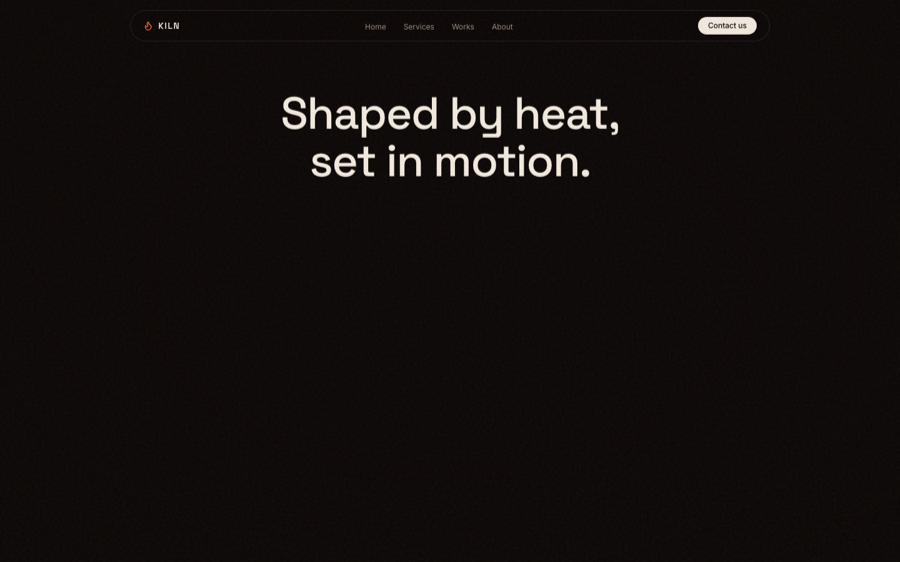
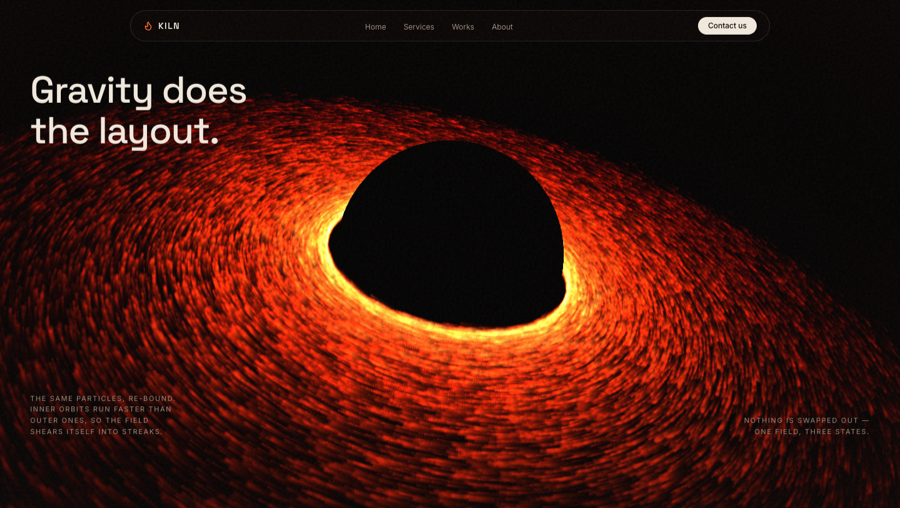
Work gallery: reorder cards, vivid Kiln black-hole shot, balanced Match thumbnail
- Reorder: Éphémère → Rouge Nuit → MÛN → Void → Velora → Kiln → web apps
- Kiln thumbnail now the live WebGL black hole (#void scene), tags → WebGL
- Match 単語帳 phone screenshot recaptured at 480px for even side margins

diff --git a/index.html b/index.html
@@ -201,31 +201,16 @@
     </article>
 
     <article class="work-card reveal">
-      <a class="work-thumb" href="https://void-gray-pi.vercel.app" target="_blank" rel="noopener">
-        <img src="assets/work/void.png" alt="Void creative studio website" loading="lazy" />
+      <a class="work-thumb" href="https://rouge-nuit.vercel.app" target="_blank" rel="noopener">
+        <img src="assets/work/rouge-nuit.png" alt="Rouge Nuit cosmetics website" loading="lazy" />
         <span class="work-thumb-cta">View live ↗</span>
       </a>
       <div class="work-info">
-        <div class="work-titlerow"><h3 class="work-title">Void</h3><span class="work-year">’26</span></div>
-        <p class="work-desc">A bold creative-studio site with a striking hero and expressive, high-contrast art direction.</p>
+        <div class="work-titlerow"><h3 class="work-title">Rouge Nuit</h3><span class="work-year">’26</span></div>
+        <p class="work-desc">A cosmetics landing page with dark-romance art direction and a single, confident hero product.</p>
         <div class="work-meta">
-          <div class="work-tags"><span class="work-tag">Next.js</span><span class="work-tag">Motion</span><span class="work-tag">Studio</span></div>
-          <div class="work-links"><a href="https://void-gray-pi.vercel.app" target="_blank" rel="noopener" class="work-link">Live</a><a href="https://github.com/cathyakanerena07/void-studio" target="_blank" rel="noopener" class="work-link ghost">Code</a></div>
-        </div>
-      </div>
-    </article>
-
-    <article class="work-card reveal">
-      <a class="work-thumb" href="https://kiln-tawny.vercel.app" target="_blank" rel="noopener">
-        <img src="assets/work/kiln.png" alt="Kiln motion studio website" loading="lazy" />
-        <span class="work-thumb-cta">View live ↗</span>
-      </a>
-      <div class="work-info">
-        <div class="work-titlerow"><h3 class="work-title">Kiln</h3><span class="work-year">’26</span></div>
-        <p class="work-desc">A motion-studio site built around scroll-driven animation and warm, tactile branding.</p>
-        <div class="work-meta">
-          <div class="work-tags"><span class="work-tag">Next.js</span><span class="work-tag">Scroll FX</span><span class="work-tag">Branding</span></div>
-          <div class="work-links"><a href="https://kiln-tawny.vercel.app" target="_blank" rel="noopener" class="work-link">Live</a><a href="https://github.com/cathyakanerena07/kiln-motion-studio" target="_blank" rel="noopener" class="work-link ghost">Code</a></div>
+          <div class="work-tags"><span class="work-tag">Next.js</span><span class="work-tag">Motion</span><span class="work-tag">Beauty</span></div>
+          <div class="work-links"><a href="https://rouge-nuit.vercel.app" target="_blank" rel="noopener" class="work-link">Live</a><a href="https://github.com/cathyakanerena07/rouge-nuit" target="_blank" rel="noopener" class="work-link ghost">Code</a></div>
         </div>
       </div>
     </article>
@@ -246,16 +231,16 @@
     </article>
 
     <article class="work-card reveal">
-      <a class="work-thumb" href="https://rouge-nuit.vercel.app" target="_blank" rel="noopener">
-        <img src="assets/work/rouge-nuit.png" alt="Rouge Nuit cosmetics website" loading="lazy" />
+      <a class="work-thumb" href="https://void-gray-pi.vercel.app" target="_blank" rel="noopener">
+        <img src="assets/work/void.png" alt="Void creative studio website" loading="lazy" />
         <span class="work-thumb-cta">View live ↗</span>
       </a>
       <div class="work-info">
-        <div class="work-titlerow"><h3 class="work-title">Rouge Nuit</h3><span class="work-year">’26</span></div>
-        <p class="work-desc">A cosmetics landing page with dark-romance art direction and a single, confident hero product.</p>
+        <div class="work-titlerow"><h3 class="work-title">Void</h3><span class="work-year">’26</span></div>
+        <p class="work-desc">A bold creative-studio site with a striking hero and expressive, high-contrast art direction.</p>
         <div class="work-meta">
-          <div class="work-tags"><span class="work-tag">Next.js</span><span class="work-tag">Motion</span><span class="work-tag">Beauty</span></div>
-          <div class="work-links"><a href="https://rouge-nuit.vercel.app" target="_blank" rel="noopener" class="work-link">Live</a><a href="https://github.com/cathyakanerena07/rouge-nuit" target="_blank" rel="noopener" class="work-link ghost">Code</a></div>
+          <div class="work-tags"><span class="work-tag">Next.js</span><span class="work-tag">Motion</span><span class="work-tag">Studio</span></div>
+          <div class="work-links"><a href="https://void-gray-pi.vercel.app" target="_blank" rel="noopener" class="work-link">Live</a><a href="https://github.com/cathyakanerena07/void-studio" target="_blank" rel="noopener" class="work-link ghost">Code</a></div>
         </div>
       </div>
     </article>
@@ -271,6 +256,21 @@
         <div class="work-meta">
           <div class="work-tags"><span class="work-tag">Next.js</span><span class="work-tag">Elegant</span><span class="work-tag">Venue</span></div>
           <div class="work-links"><a href="https://velora-wedding.vercel.app" target="_blank" rel="noopener" class="work-link">Live</a><a href="https://github.com/cathyakanerena07/velora-wedding" target="_blank" rel="noopener" class="work-link ghost">Code</a></div>
+        </div>
+      </div>
+    </article>
+
+    <article class="work-card reveal">
+      <a class="work-thumb" href="https://kiln-tawny.vercel.app" target="_blank" rel="noopener">
+        <img src="assets/work/kiln.png" alt="Kiln motion studio website" loading="lazy" />
+        <span class="work-thumb-cta">View live ↗</span>
+      </a>
+      <div class="work-info">
+        <div class="work-titlerow"><h3 class="work-title">Kiln</h3><span class="work-year">’26</span></div>
+        <p class="work-desc">A motion-studio site built around a live WebGL particle system — a black hole rendered in real time.</p>
+        <div class="work-meta">
+          <div class="work-tags"><span class="work-tag">Next.js</span><span class="work-tag">WebGL</span><span class="work-tag">Motion</span></div>
+          <div class="work-links"><a href="https://kiln-tawny.vercel.app" target="_blank" rel="noopener" class="work-link">Live</a><a href="https://github.com/cathyakanerena07/kiln-motion-studio" target="_blank" rel="noopener" class="work-link ghost">Code</a></div>
         </div>
       </div>
     </article>
